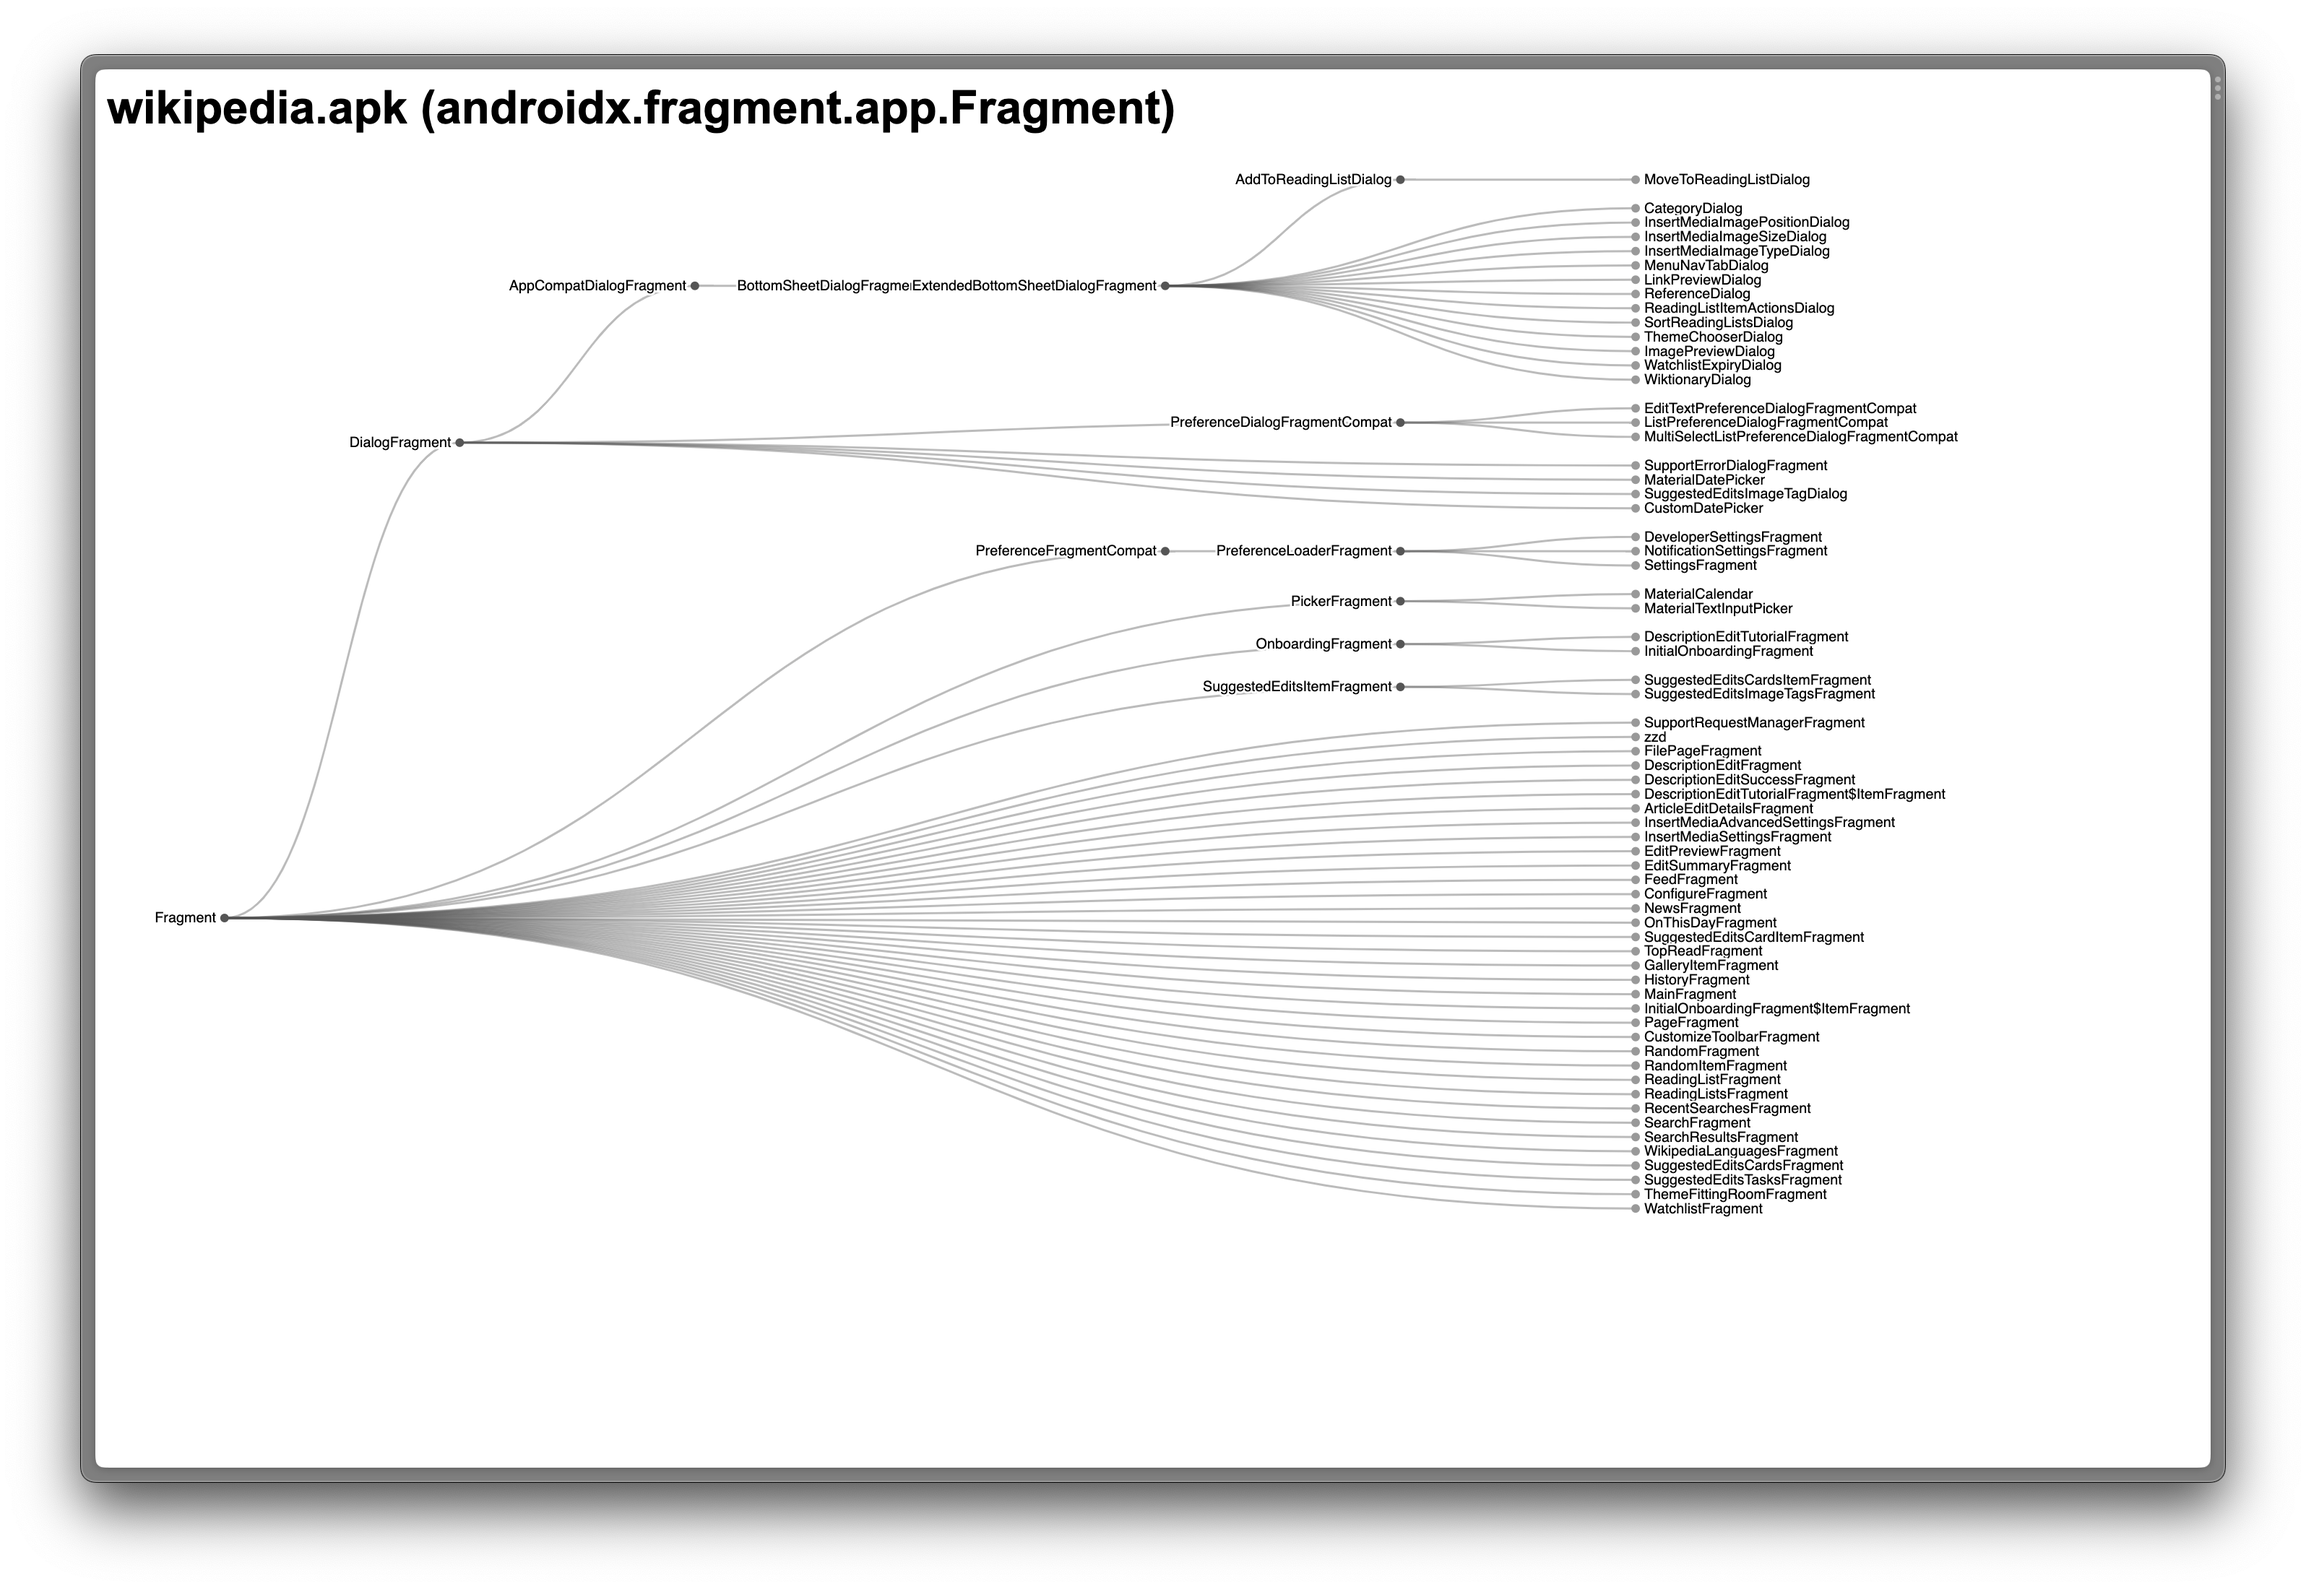
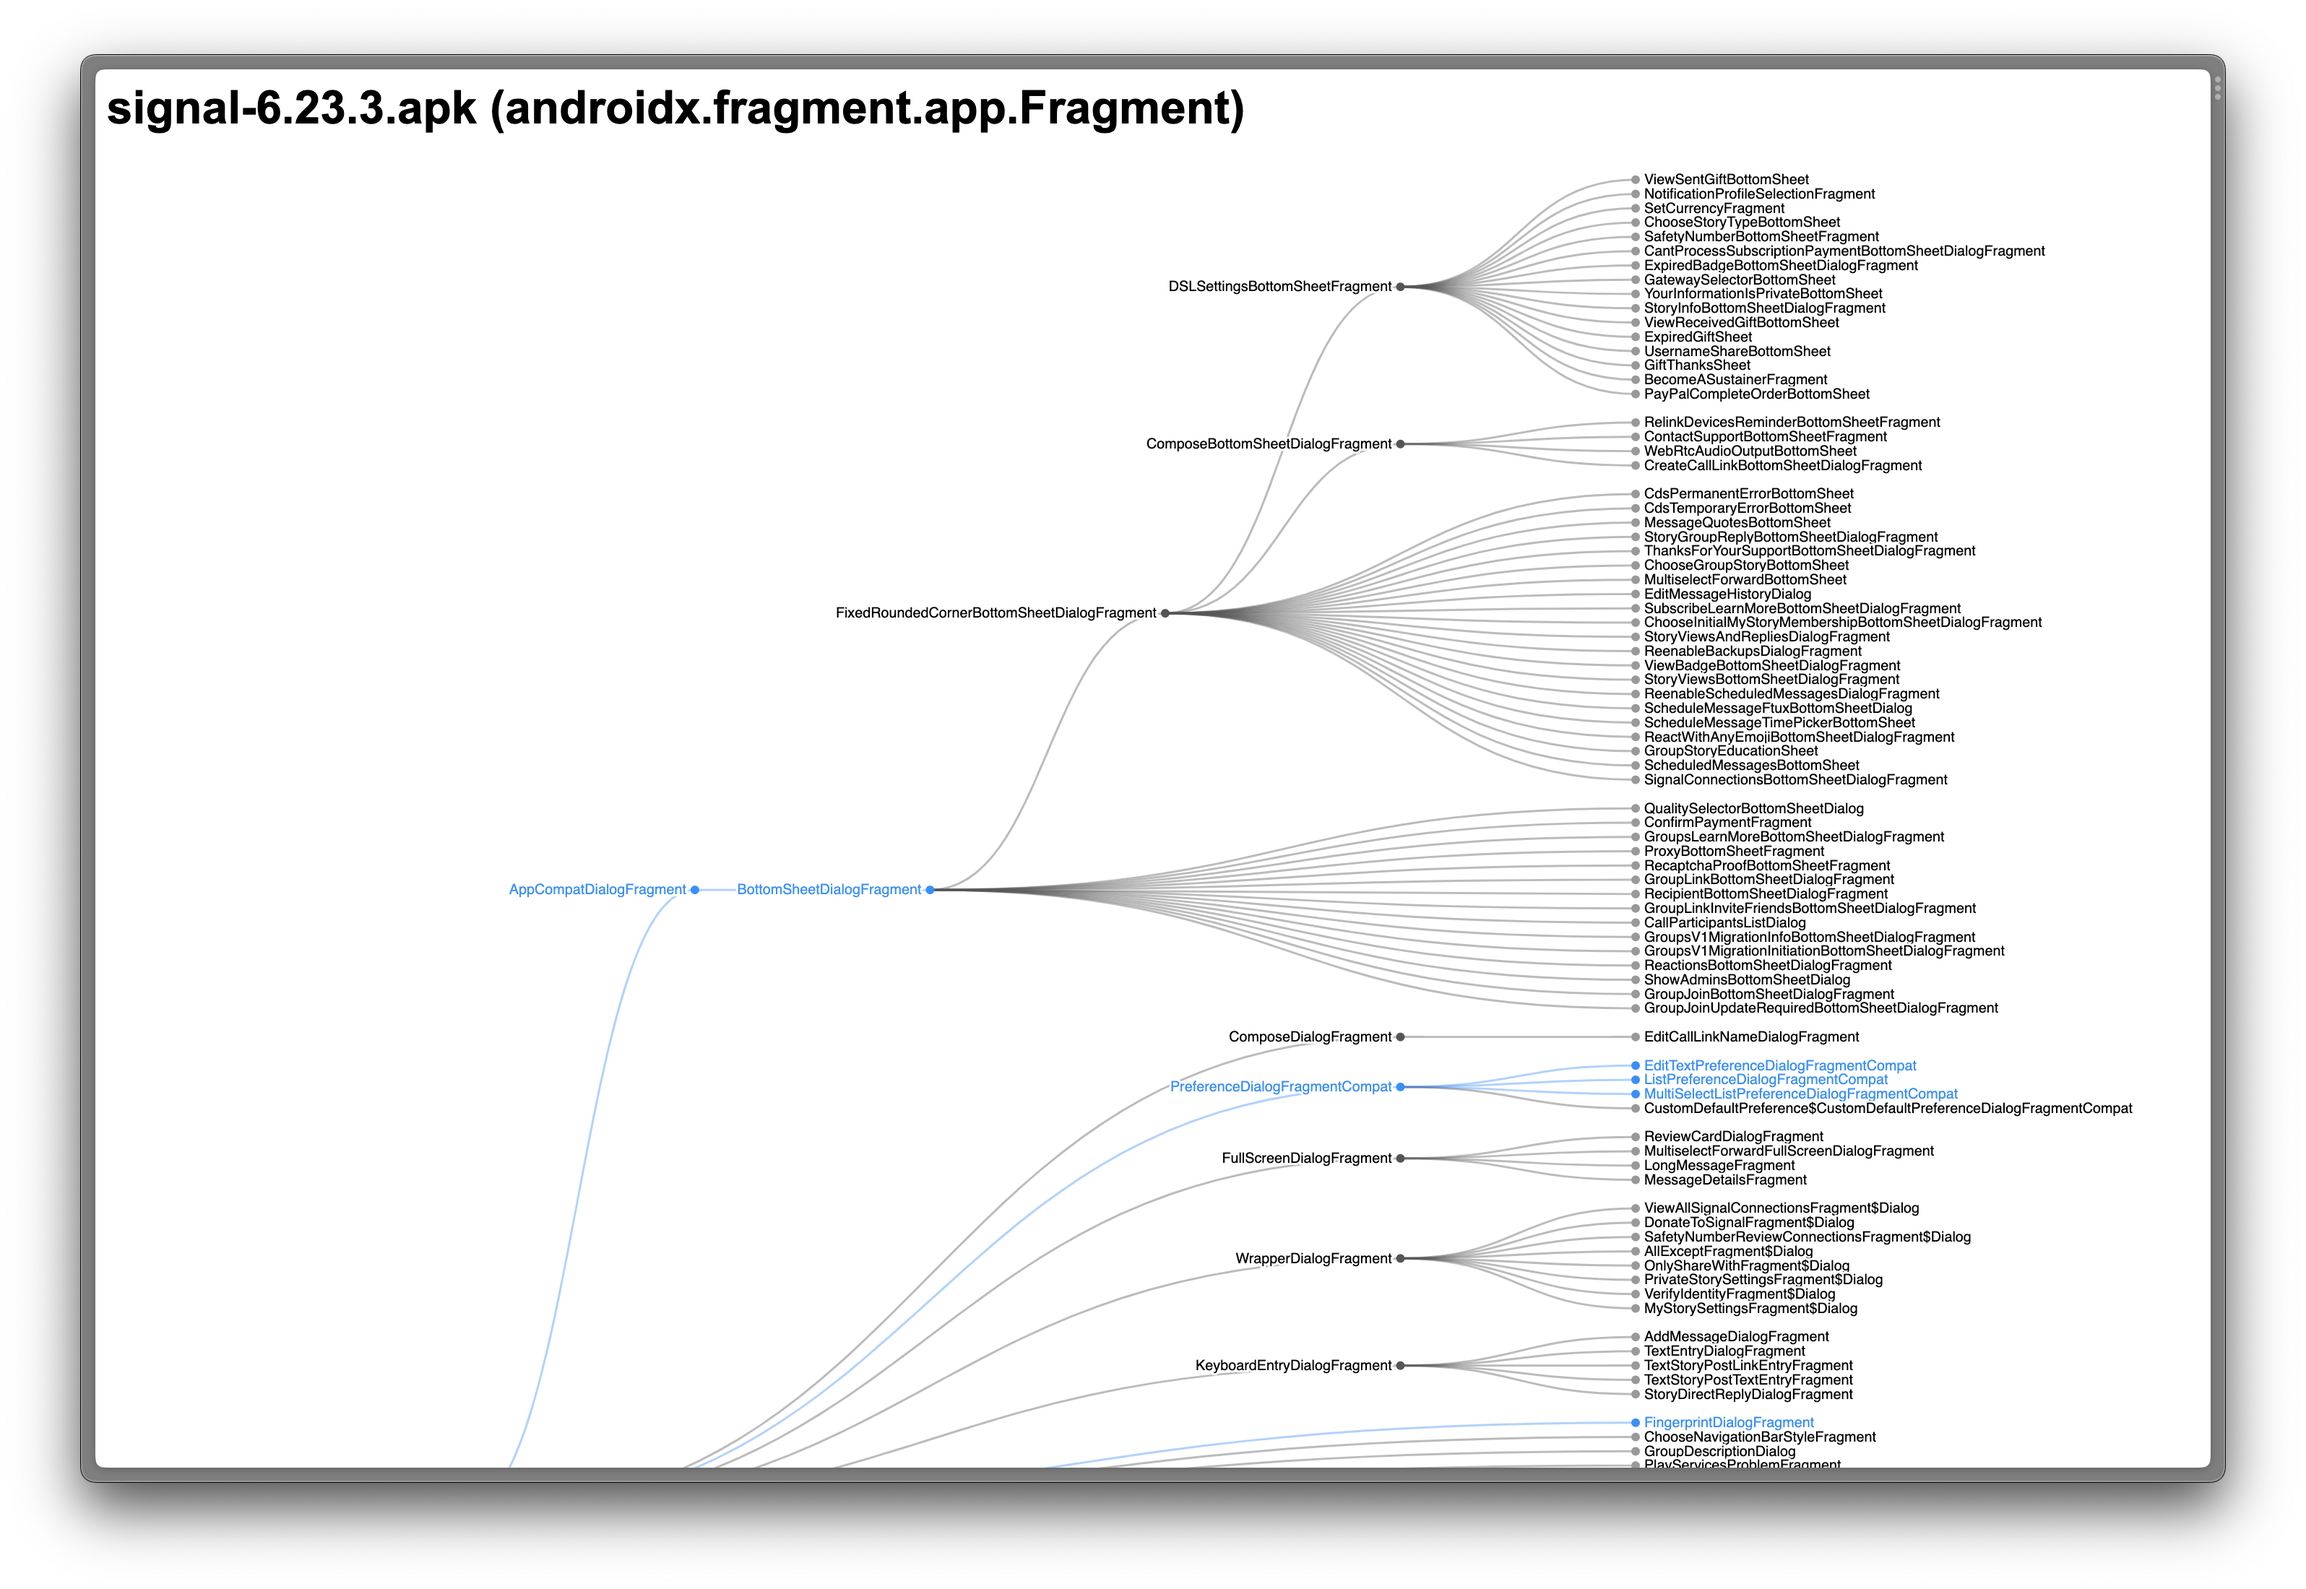
docs: update screenshot

diff --git a/README.md b/README.md
@@ -124,7 +124,7 @@ eureka top 10 --ext cpp,swift
 #### Usage
 
 ```bash
-eureka hierarchy wikipedia.apk -n androidx.fragment.app.Fragment
+eureka hierarchy signal-6.23.3.apk -n androidx.fragment.app.Fragment
 ```
 
 Visit `localhost:7090` in your browser to see the diagram.
